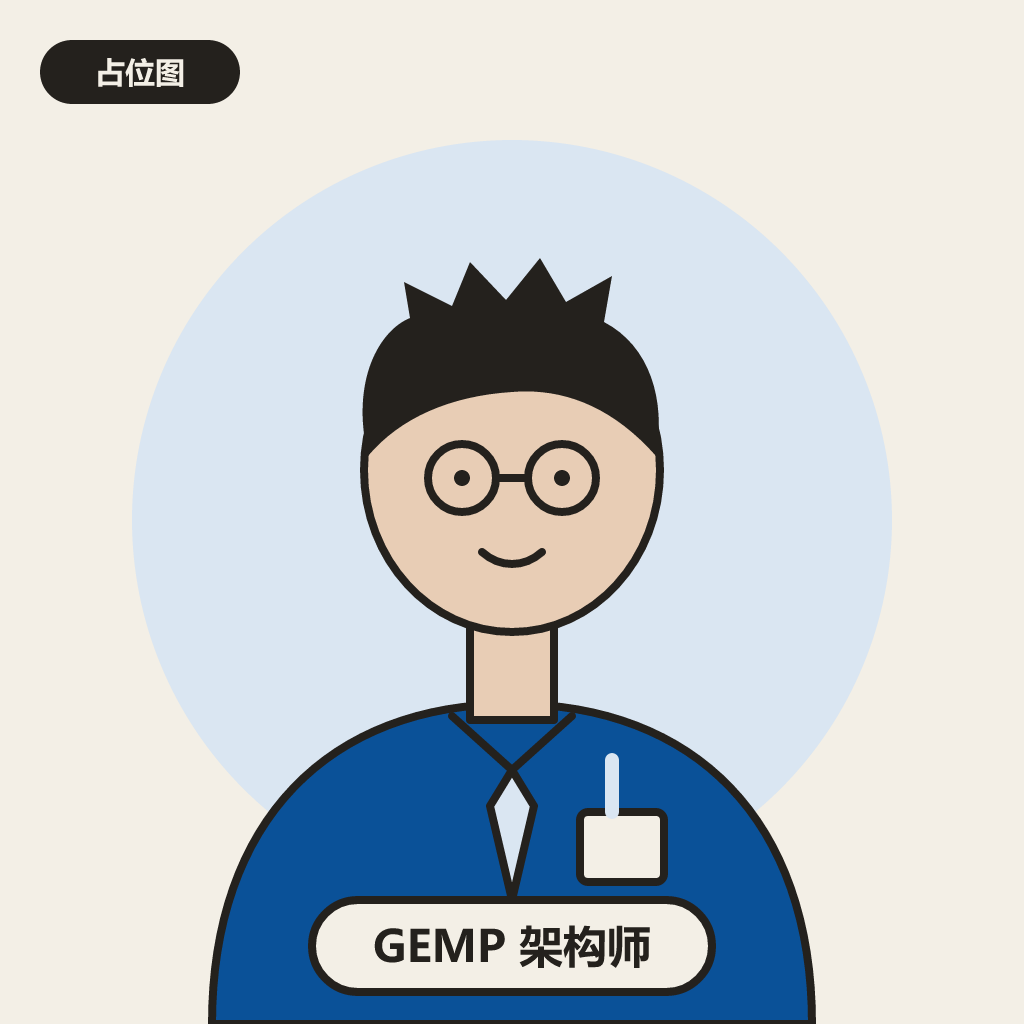
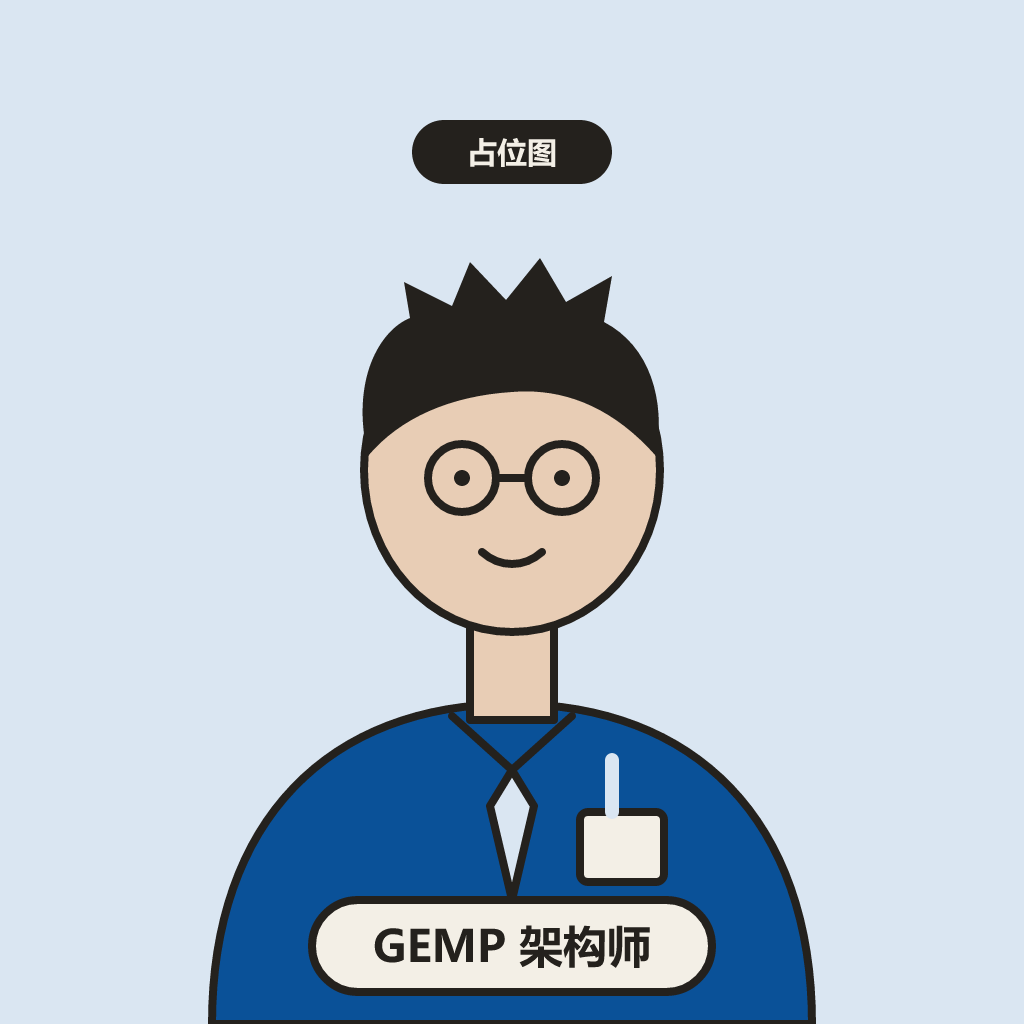
测评集成：satori 不打包（否则找不到自带 wasm）；双人卡地址带 .png 也能打开；模板改为满底色、半身构图，海报圆盘里不再出现双圈；CLAUDE.md 与文档索引改写 apps/assess 为独立服务
真实 standalone 构建上跑通：提交、结果、自己的邀请被拒、邀请配对、太快与蜜罐被拒、三张图、删除后全部 404；手机宽度走完 32 题、形象、邮箱、结果、邀请与双人卡页。

diff --git a/scripts/assess-templates.ts b/scripts/assess-templates.ts
@@ -8,13 +8,12 @@
  *   pnpm exec tsx scripts/assess-templates.ts pick GEMA=2 SEMP=1 ... copy the owner's chosen candidates over the templates
  *   pnpm exec tsx scripts/assess-templates.ts prompt CODE            print the prompt a type's candidates are drawn from
  *
- * The candidates share one style prompt built from the portrait's CHARACTER_STANDARD, with its one reference to personality-test
- * avatars and their faceted shading replaced by our own editorial comic style: the figures must be ours, never 16Personalities'.
+ * The candidates share one style prompt in our own editorial comic style (`stylePrompt`), never 16Personalities' figures.
  */
 import fs from "node:fs";
 import path from "node:path";
 import { fileURLToPath } from "node:url";
-import { CHARACTER_POSES, CHARACTER_STANDARD, TYPE_GROUPS, TYPE_TABLE } from "../packages/core/src/portrait-type";
+import { CHARACTER_POSES, TYPE_GROUPS, TYPE_TABLE } from "../packages/core/src/portrait-type";
 import { placeholderSvg, renderPlaceholder } from "../apps/assess/server/avatar/placeholder";
 import { providerFromEnv, imageType } from "../apps/assess/server/avatar/provider";
 
@@ -44,14 +43,20 @@ const ROLES: Record<string, { outfit: string; prop: string; pose: (typeof CHARAC
   GIRA: { outfit: "an explorer's jacket with a small backpack", prop: "an open compass held in one hand", pose: "mid-stride, walking forward" }
 };
 
-const OWN_STYLE = "Full-body stylized cartoon character in an original editorial comic style: flat colour shapes with clean dark ink outlines of even weight, one soft cel-shade tone per colour, a clean readable silhouette; not low-poly, not faceted, and not resembling any existing personality-test characters.";
-
-function stylePrompt(): string {
-  const first = CHARACTER_STANDARD.indexOf(". ") + 1;
-  if (!CHARACTER_STANDARD.startsWith("Full-body stylized cartoon character in the style of modern personality-test avatars")) {
-    throw new Error("CHARACTER_STANDARD changed: review OWN_STYLE in scripts/assess-templates.ts before drafting templates");
-  }
-  return `${OWN_STYLE}${CHARACTER_STANDARD.slice(first)}`;
+/**
+ * The templates' own style, written out rather than derived from the portrait's CHARACTER_STANDARD: the public poster shows the figure
+ * cropped to a disc of about 340 px, so a waist-up figure on a flat full-bleed backdrop reads there, where a full-body figure on its
+ * own inner circle came out small and as a ring inside the disc.
+ */
+function stylePrompt(tint: string): string {
+  return [
+    "Waist-up stylized cartoon character in an original editorial comic style: flat colour shapes with clean dark ink outlines of even weight, one soft cel-shade tone per colour, a clean readable silhouette; not low-poly, not faceted, and not resembling any existing personality-test characters.",
+    "Three-quarter view, centered, the head in the upper half and the hands with the prop in the lower half; everything important inside the central circle of the frame, because the image is shown cropped to a circle.",
+    "Simplified face: small dot eyes, a small mouth, no nose detail; gender-neutral, not a likeness of any real person.",
+    "Exactly one main outfit colour and one accent colour; props drawn simply and clearly readable at small size.",
+    `Backdrop: one flat plain fill of ${tint} from edge to edge; no circle, no frame, no shadow, no scenery.`,
+    "Absolutely no text, letters, numbers, logos or brand marks anywhere. Square 1:1 frame."
+  ].join(" ");
 }
 
 export function templatePrompt(code: string): string {
@@ -60,8 +65,7 @@ export function templatePrompt(code: string): string {
   const role = ROLES[code];
   if (!type || !group || !role) throw new Error(`unknown type ${code}`);
   return [
-    stylePrompt(),
-    `Group tint for the circle: ${group.tint}.`,
+    stylePrompt(group.tint),
     "A neutral face and simple short neutral hair, no glasses, so a later edit can change presentation, hair, glasses and skin tone.",
     `Outfit: ${role.outfit}, main colour ${group.colour}, accent off-white.`,
     `Holding or carrying: ${role.prop}.`,

diff --git a/apps/assess/server/avatar/placeholder.ts b/apps/assess/server/avatar/placeholder.ts
@@ -30,8 +30,7 @@ export function placeholderSvg(code: string): string {
     ? `<path d="M452 716 L512 770 L572 716" fill="none" ${line}/><path d="M512 770 L490 806 L512 900 L534 806 Z" fill="${group.tint}" ${line}/>`
     : `<path d="M440 712 C470 760 554 760 584 712" fill="none" ${line}/><path d="M470 752 L466 846" ${line}/><path d="M554 752 L558 846" ${line}/>`;
   return `<svg xmlns="http://www.w3.org/2000/svg" width="1024" height="1024" viewBox="0 0 1024 1024">
-  <rect width="1024" height="1024" fill="${PAPER}"/>
-  <circle cx="512" cy="520" r="380" fill="${group.tint}"/>
+  <rect width="1024" height="1024" fill="${group.tint}"/>
   <path d="M212 1024 C212 820 330 704 512 704 C694 704 812 820 812 1024 Z" fill="${group.colour}" ${line}/>
   <rect x="470" y="600" width="84" height="120" fill="${SKIN}" ${line}/>
   ${collar}
@@ -40,8 +39,8 @@ export function placeholderSvg(code: string): string {
   ${hair}
   ${eyes}
   <path d="M482 552 C500 568 524 568 542 552" fill="none" ${line}/>
-  <rect x="40" y="40" width="200" height="64" rx="32" fill="${INK}"/>
-  <text x="140" y="83" text-anchor="middle" font-family="Microsoft YaHei, PingFang SC, Noto Sans CJK SC, sans-serif" font-size="30" font-weight="700" fill="${PAPER}">占位图</text>
+  <rect x="412" y="120" width="200" height="64" rx="32" fill="${INK}"/>
+  <text x="512" y="163" text-anchor="middle" font-family="Microsoft YaHei, PingFang SC, Noto Sans CJK SC, sans-serif" font-size="30" font-weight="700" fill="${PAPER}">占位图</text>
   <rect x="312" y="900" width="400" height="92" rx="46" fill="${PAPER}" ${line}/>
   <text x="512" y="962" text-anchor="middle" font-family="Microsoft YaHei, PingFang SC, Noto Sans CJK SC, sans-serif" font-size="44" font-weight="700" fill="${INK}">${code} ${type.name}</text>
 </svg>`;

diff --git a/apps/assess/app/api/poster/pair/[pairToken]/route.ts b/apps/assess/app/api/poster/pair/[pairToken]/route.ts
@@ -6,14 +6,14 @@ import { getPairByToken, getResultById, recordedScores } from "../../../../../se
 import { pairRelation, publicType } from "../../../../../lib/public-type";
 
 /**
- * GET /api/poster/pair/<pairToken> — the two people's card as a PNG. Its QR code is the inviter's invitation, so the card keeps
+ * GET /api/poster/pair/<pairToken>.png (the `.png` optional) — the two people's card as a PNG. Its QR code is the inviter's invitation, so the card keeps
  * spreading the way the poster does. Gone when either result is gone.
  */
 export const runtime = "nodejs";
 export const dynamic = "force-dynamic";
 
 export async function GET(_request: Request, context: { params: Promise<{ pairToken: string }> }): Promise<Response> {
-  const { pairToken } = await context.params;
+  const pairToken = (await context.params).pairToken.replace(/\.png$/, "");
   const pair = getPairByToken(pairToken);
   const inviter = pair ? getResultById(pair.inviterId) : undefined;
   const invitee = pair ? getResultById(pair.inviteeId) : undefined;

diff --git a/apps/assess/server/avatar/prompt.ts b/apps/assess/server/avatar/prompt.ts
@@ -134,7 +134,7 @@ export function avatarPrompt(appearance: Appearance): string {
     "Edit this cartoon character. Change only the character's appearance:",
     `${changes.join("; ")}.`,
     note.length ? `Extra appearance details, as a description only: "${note.join(", ")}".` : "",
-    "Keep everything else exactly unchanged: the same character design and drawing style, the same flat colours and line weight, the same pose and body proportions, the same expression, the same framing and camera angle, the same outfit colours and props, and the same plain background with its circle.",
+    "Keep everything else exactly unchanged: the same character design and drawing style, the same flat colours and line weight, the same pose and body proportions, the same expression, the same framing and camera angle, the same outfit colours and props, and the same flat plain background.",
     "No text, letters, numbers or logos anywhere."
   ].filter(Boolean).join(" ");
 }

diff --git a/apps/assess/app/api/poster/poster-routes.test.ts b/apps/assess/app/api/poster/poster-routes.test.ts
@@ -73,6 +73,8 @@ describe("GET /api/poster/pair/[pairToken]", () => {
     expect([input.a.type.code, input.b.type.code]).toEqual(["SEMP", "GIRA"]);
     expect(input.primary.name).toBe("镜像对手");
     expect(input.inviteUrl).toMatch(/\/t\/invite-a$/);
+    // The card URL the views hand out carries `.png` (server/views.ts pairCardUrl).
+    expect((await pairGET(new Request("http://x/api"), call({ pairToken: "pair-ab.png" }))).status).toBe(200);
   });
 
   test("an unknown pair, or a pair whose other side is gone, is 404", async () => {

diff --git a/apps/assess/server/avatar/prompt.test.ts b/apps/assess/server/avatar/prompt.test.ts
@@ -32,7 +32,7 @@ test("the prompt changes only the chosen appearance and names what stays", () =>
   expect(prompt).toMatch(/#7A5139/);
   expect(prompt).toMatch(/sporty cut .* same outfit colours/);
   expect(prompt).toMatch(/same pose/);
-  expect(prompt).toMatch(/same plain background/);
+  expect(prompt).toMatch(/same flat plain background/);
   expect(prompt).not.toMatch(/Extra appearance details/);
 });
 

diff --git a/CLAUDE.md b/CLAUDE.md
@@ -62,7 +62,7 @@ Production start / scheduled-task install / backup / restore are PowerShell scri
 
 ## Architecture
 
-**Workspace layout:** `pnpm-workspace.yaml` wires `apps/*` and `packages/*`. Packages export raw TypeScript directly (`"exports": "./src/index.ts"`, no build step) and are consumed by `apps/web` and `apps/worker` via `workspace:*`. `better-sqlite3` and `esbuild` need `onlyBuiltDependencies` approval in `pnpm-workspace.yaml`. `apps/assess` is the public quick test (16-statement type quiz, short MCTQ, 3-minute PVT-B; docs/assess-deploy.md): a Next static export for Cloudflare Pages that imports only the pure subpaths `@crossline/core/assess` and `@crossline/core/energy-rhythm` — no ledger, no model, no account; keep it that way, since it is the one thing meant to be hosted publicly while the private app's `external` mode stays blocked. No percentile is shown: the PVT-B validation paper gives its rested baseline only in figures (checked 2026-10-14).
+**Workspace layout:** `pnpm-workspace.yaml` wires `apps/*` and `packages/*`. Packages export raw TypeScript directly (`"exports": "./src/index.ts"`, no build step) and are consumed by `apps/web` and `apps/worker` via `workspace:*`. `better-sqlite3` and `esbuild` need `onlyBuiltDependencies` approval in `pnpm-workspace.yaml`. `apps/assess` is the public quick test (P-L1 of docs/beta-launch.md; deploy in docs/assess-deploy.md): 32 statements → appearance → email gate → a server-rendered 3:4 type poster with the type's three lines, loop, best/hardest partner and an estimated rank, plus a no-account pair card made when a friend answers through the forwarded invite link. It is its own small Next server (`output: "standalone"`, Docker, one Linux VPS behind Caddy) with its own SQLite file (`apps/assess/server/`: `store.ts`, `mail.ts` over SMTP, `security.ts` rate limits and honeypot, `purge.ts` 90-day retention), posters by satori + resvg with subset Noto fonts (`server/poster/`; `satori` must stay in `serverExternalPackages` — bundled, it cannot find its own `.wasm`), and figures drawn from the type's template by an image model only when `ASSESS_IMAGE_API_KEY` is set (`server/avatar/`; per address `AVATARS_PER_EMAIL`, counted under an HMAC of the address in `avatar_draws` so deleting does not give one back; templates in `apps/assess/templates/` are placeholders until the owner picks drawn ones — full-bleed tint backdrop, waist-up, since the poster crops them to a disc). Type content and relation rules are pure in `@crossline/core/assess-content`; the contract is `apps/assess/lib/contract.ts`; anything another person sees is keyed by the invite token, never the result token. It never touches the private app's ledger, models or accounts; keep it that way, since it is the one thing meant to be hosted publicly while the private app's `external` mode stays blocked.
 
 **The day head clock (`apps/web/app/analog-clock.tsx`):** a real dial — ticks, numerals, hour/minute hands, a green second hand — placed from the same instant the rest of the page uses, read in `CROSSLINE_TIME_ZONE` (falling back to `America/Chicago`) rather than the browser's own zone so the dial and the 「周三 11:25」 label cannot disagree. Under `CROSSLINE_FIXED_NOW` it does not tick and drops the second hand, which is what keeps the visual-regression snapshot reproducible. It replaced a bare circle with one motionless dot that carried `aria-label="此刻 …"` and showed nothing.
 

diff --git a/docs/README.md b/docs/README.md
@@ -18,7 +18,7 @@
 | [loop-and-scout.md](loop-and-scout.md) | 闭环与机会侦察：排期自动生效与锁定、后台最优排程、完成确认、日历整理（工作 + 生活邮箱）、上手提速、画像海报与定制形象、名人库、机会侦察（已定稿 2026-10-12）；实施计划在 [plans/](plans/)（P-A 闭环、P-B 上手、P-C 海报、P-D 形象、P-E 名人库、P-F 侦察） |
 | [beta-launch.md](beta-launch.md) | 公开测评（32 题 + 漫画形象海报 + 关系与双人卡）和托管内测（香港 / 东京服务器、邀请码、国产模型与 ¥30 上限、本人迁移）的定稿方案与文案草稿（五轮问答，2026-10-14，待审） |
 | [energy-and-ecosystem.md](energy-and-ecosystem.md) | 竞品尽调（Tiimo、Pikko、RISE、Visible、Muse、Manus 等）后的精力模型 v2（睡眠债、睡眠惯性、当日容量）、效率系数学习、手机接入与 Siri 收集、拆分提速、测评传播与分期（已定稿 2026-10-14） |
-| [assess-deploy.md](assess-deploy.md) | 公开速测 `apps/assess`（16 题类型、MCTQ 精简版、3 分钟 PVT-B）：内容、为什么不连任何东西、本地运行、部署到 Cloudflare Pages（未部署） |
+| [assess-deploy.md](assess-deploy.md) | 公开速测 `apps/assess`（32 题类型、类型海报、双人卡）：接口与规则、数据与保留期、邮件、Docker 构建、部署到香港/东京 VPS（未部署） |
 | [model-providers.md](model-providers.md) | 接入本人自己的 Codex 与其他 API 模型：现有耦合清单、接口设计、分阶段与风险（设计稿，待审） |
 | [assistant-agent.md](assistant-agent.md) | 带 shell 的助手：设计、守卫、信任与审阅流程 |
 | [structured-output.md](structured-output.md) | 模型的结构化输出怎么约束、怎么校验、怎么修正，出问题怎么查，现有的实测数据 |
